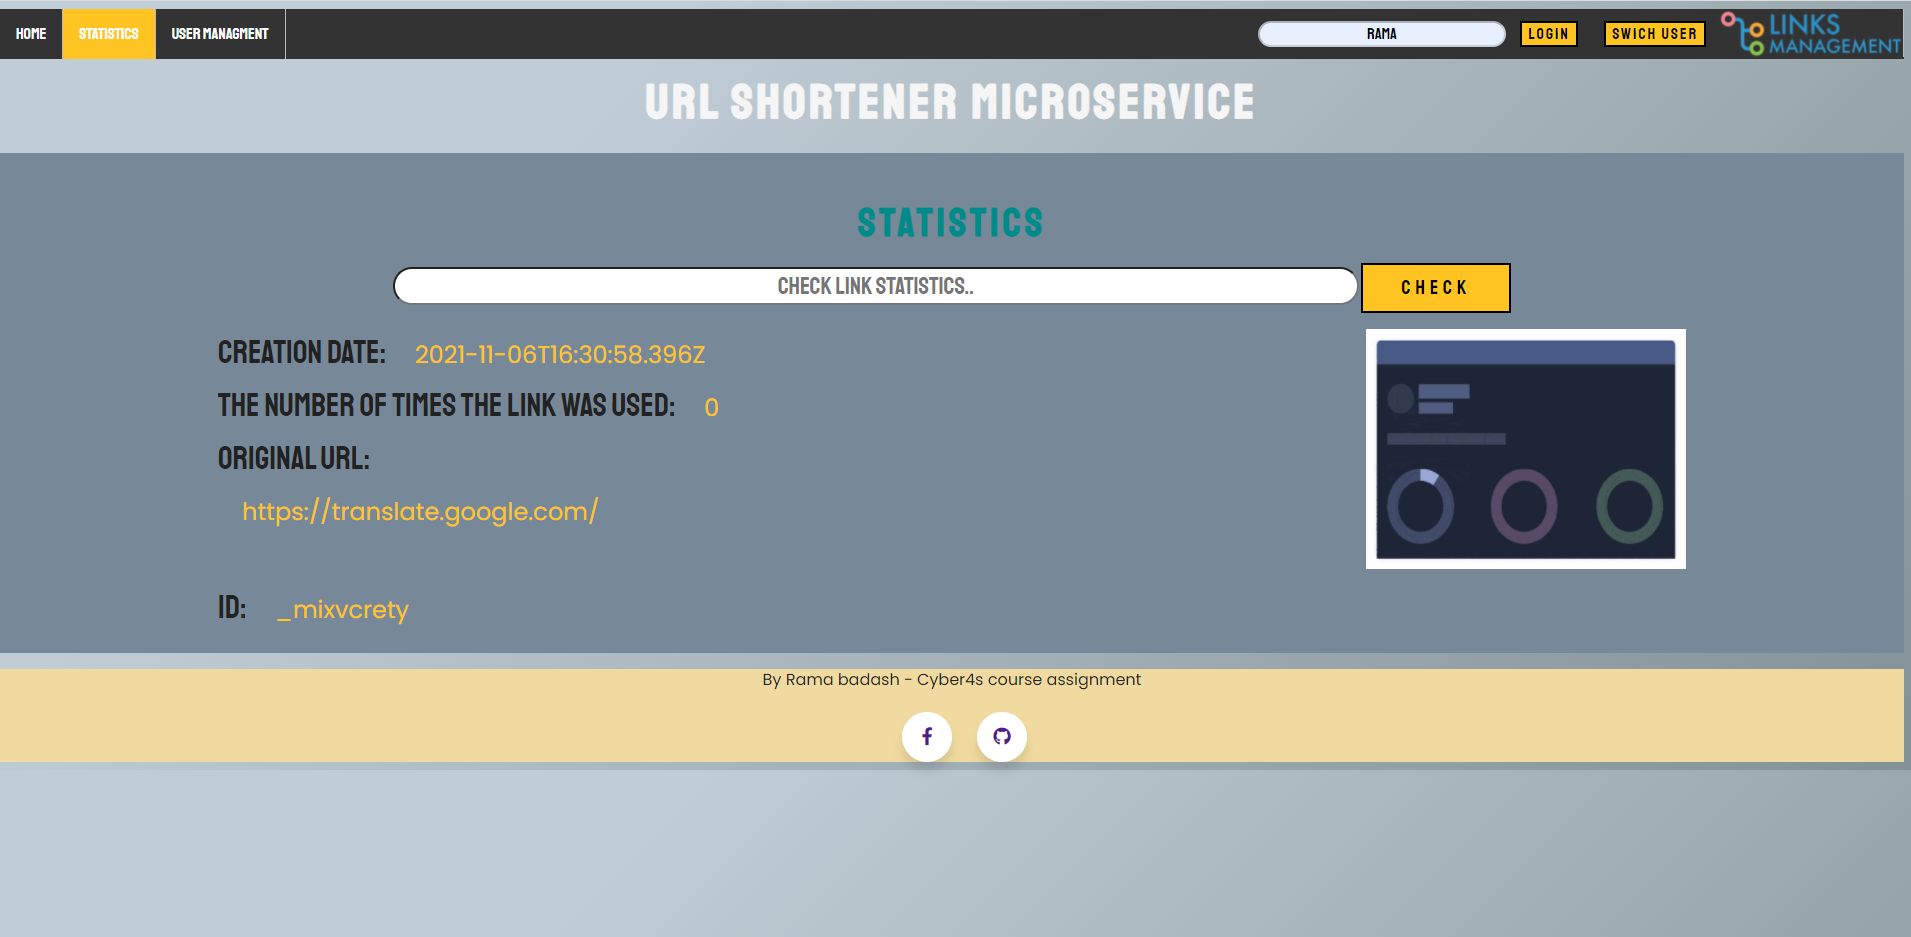
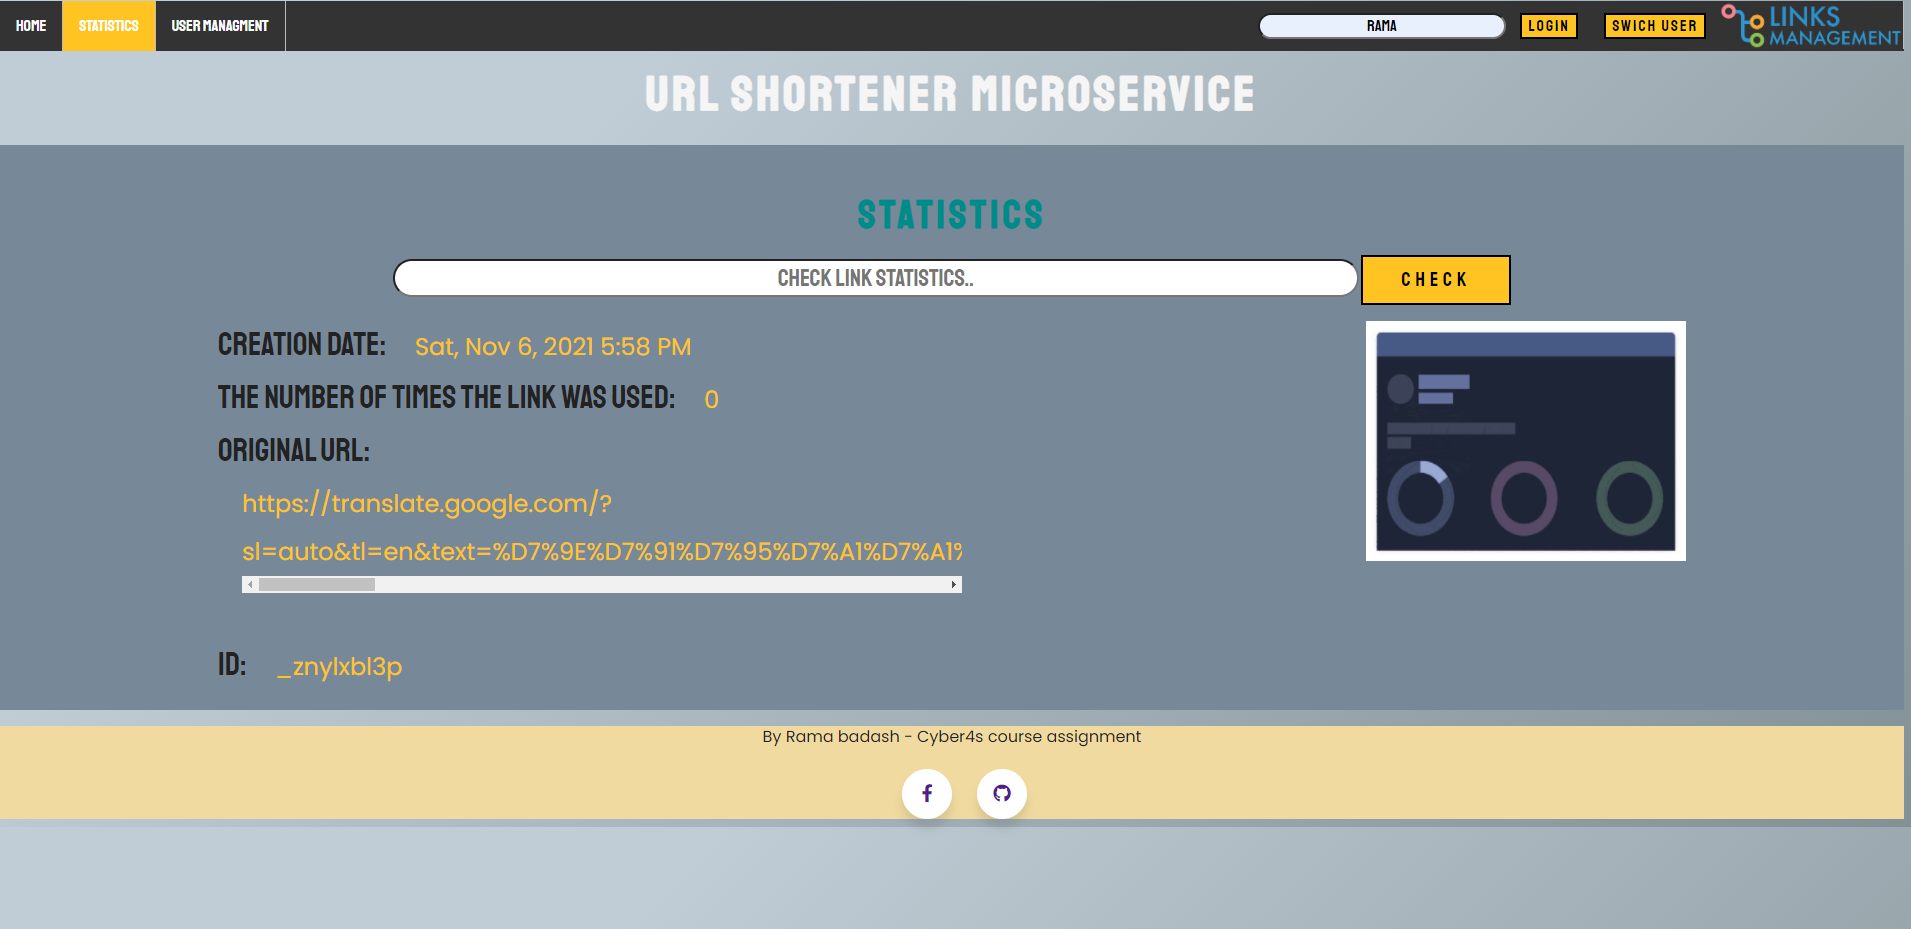
# Some README changes

diff --git a/README.md b/README.md
@@ -7,7 +7,7 @@
 * JS
 * CSS
 #### **End** 
-* Node JS - with nodemon, express, path, fs.
+* Node JS - with nodemon, express, path, fs, moment.
 #### **Deploy** 
 * Heroku deployment 
 * **View my app! -  https://ramas-url-shortener.herokuapp.com/**
